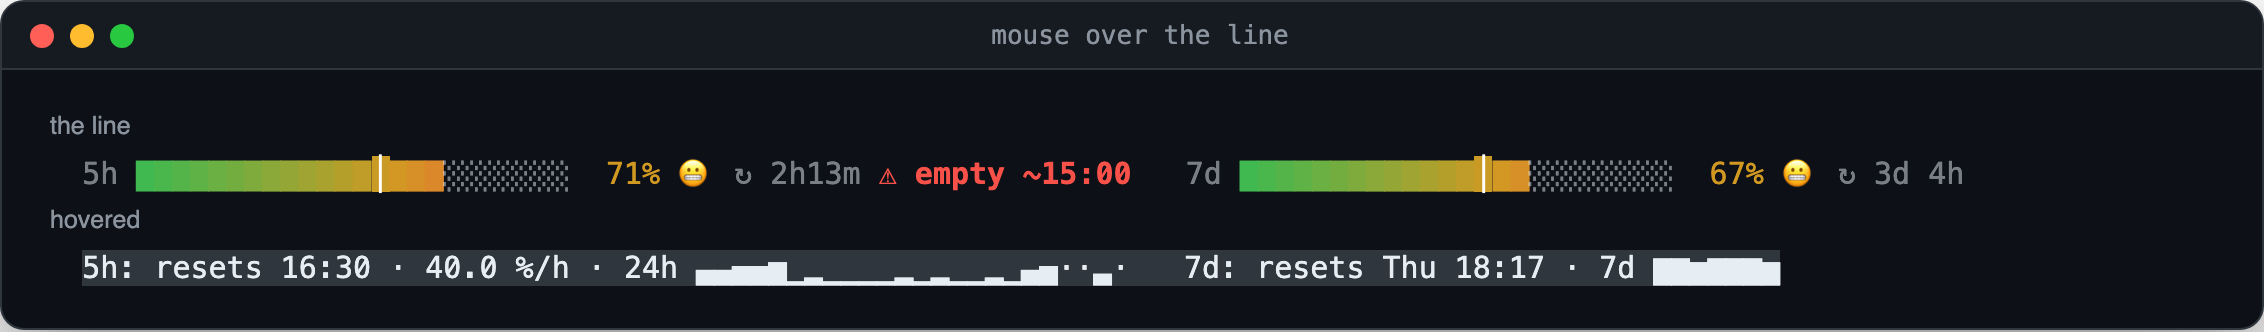
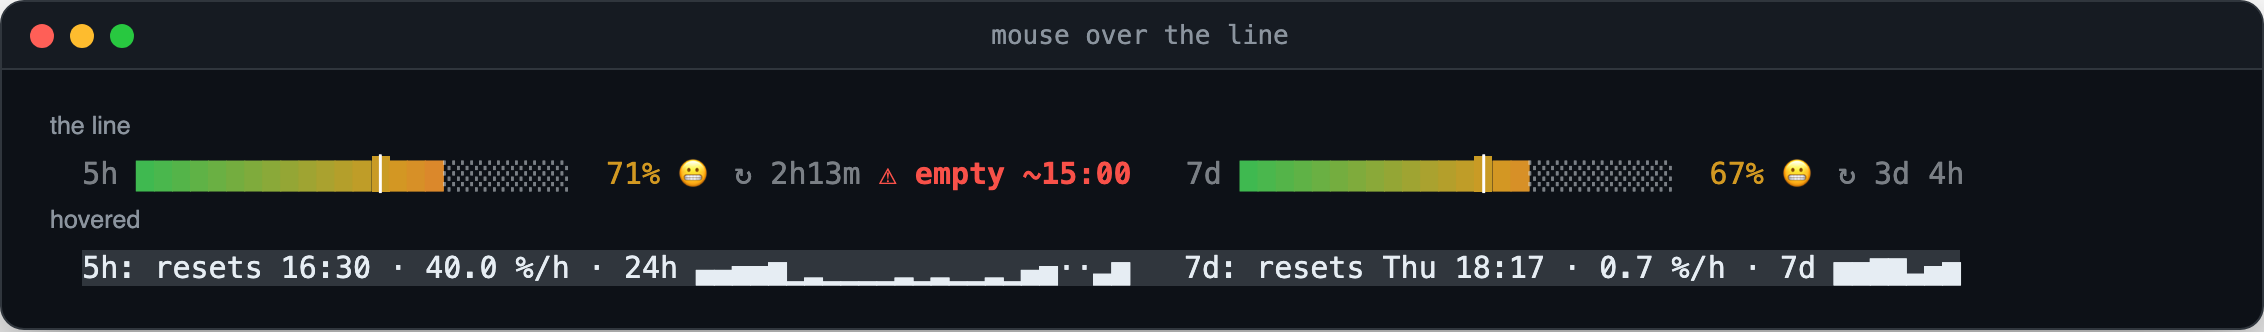
usage-bars 0.4.2: each sparkline shows its own window, no false gaps
The hover card's 7-day sparkline drew the 5-hour peaks (92 % read as ~20 %);
each window now shows its own level, with the current reading as the newest
sample. Readings only arrive when a window moves, so steady hours read as
gaps: the ticker records a steady value again every 10 minutes.

Claude-Session: https://claude.ai/code/session_019u7idwkUghepx1515yVmMc

Changed region(s): [[0.7111, 0.753, 0.8657, 0.8735], [0.4638, 0.7831, 0.5256, 0.8434]]

diff --git a/hooks/row.ts b/hooks/row.ts
@@ -1,4 +1,4 @@
-import type { Delta, History, Lang, Limit, Motion, Prefs } from '../types'
+import type { Delta, History, Lang, Limit, Motion, Prefs, Sample } from '../types'
 import {
   DELTA_MS,
   PARTY_MS,
@@ -88,16 +88,23 @@ export function rowSegs(i: RowInput): Seg[] {
   return out
 }
 
-/** The hover card: reset time, burn rate and a sparkline per window. */
+/**
+ * The hover card: reset time, burn rate and a sparkline per window.
+ *
+ * Each window's sparkline shows that window's own level (the 5h one per hour
+ * over 24 hours, the 7d one per day over 7 days), with the current reading as
+ * the newest sample: it is known even when no sample was taken this hour.
+ */
 export function detailText(limits: readonly Limit[], history: History, now: number, lang: Lang = 'en'): string {
   return limits
     .map(l => {
       const r = rate(history[l.kind], l.kind, l.resetsAt, l.percentUsed, now)
       const at = l.resetsAt ? Date.parse(l.resetsAt) : NaN
+      const own = [...(history[l.kind] ?? []), [now, l.percentUsed] as Sample]
       const sp =
         l.kind === 'five_hour'
-          ? `24h ${spark(peaks(history.five_hour, now, 3600_000, 24))}`
-          : `7${T[lang].day} ${spark(peaks(history.five_hour, now, 86400_000, 7))}`
+          ? `24h ${spark(peaks(own, now, 3600_000, 24))}`
+          : `7${T[lang].day} ${spark(peaks(own, now, 86400_000, 7))}`
       const reset = Number.isNaN(at) ? T[lang].resetOpen : T[lang].resetAt(clockTime(at, now, lang))
       return `${label(l.kind)}: ${reset}${r ? ` · ${num1(r.perHour, lang)} %/h` : ''} · ${sp}`
     })

diff --git a/tests/format.spec.ts b/tests/format.spec.ts
@@ -2,7 +2,7 @@ import { test } from 'node:test'
 import assert from 'node:assert/strict'
 
 import {
-  appendSample, barWidth, clockTime, elapsed, face, filled, glide, paceRatio, peaks, quip, rate, reached, runsDryAt, spark, tone, untilReset,
+  appendSample, barWidth, heartbeat, clockTime, elapsed, face, filled, glide, paceRatio, peaks, quip, rate, reached, runsDryAt, spark, tone, untilReset,
 } from '../hooks/format.ts'
 
 const H = 3600_000
@@ -111,6 +111,18 @@ test('appendSample caps the history at 3000 samples', () => {
   let h = {}
   for (let i = 0; i < 3100; i++) h = appendSample(h, 'five_hour', [i * 60_000, i % 100], 3100 * 60_000)
   assert.equal((h as Record<string, unknown[]>).five_hour!.length, 3000)
+})
+
+test('heartbeat records a steady reading again after its interval, and only then', () => {
+  const h = { five_hour: [[0, 10]] as [number, number][] }
+  const lims = [{ kind: 'five_hour', percentUsed: 10 }, { kind: 'seven_day', percentUsed: 90 }]
+  const soon = heartbeat({ ...h, seven_day: [[0, 90]] }, lims, 9 * 60_000, 10 * 60_000)
+  assert.deepEqual(soon.five_hour, [[0, 10]])
+  const due = heartbeat(h, lims, 10 * 60_000, 10 * 60_000)
+  assert.deepEqual(due.five_hour, [[0, 10], [600_000, 10]])
+  assert.deepEqual(due.seven_day, [[600_000, 90]])
+  const same = { five_hour: [[0, 10]] as [number, number][] }
+  assert.equal(heartbeat(same, [], 10 * H), same)
 })
 
 test('spark and peaks', () => {

diff --git a/hooks/register.tsx b/hooks/register.tsx
@@ -12,6 +12,7 @@ import {
   barWidth,
   clockTime,
   glide,
+  heartbeat,
   peaks,
   pick,
   quip,
@@ -124,6 +125,16 @@ async function publish($: EngineInterface, mine: readonly Limit[], now: number):
   return merged
 }
 
+/** Record a steady reading again now and then, so the sparklines have no false gaps. */
+async function beat($: EngineInterface, list: readonly Limit[], now: number): Promise<void> {
+  const stored = ((await $.store.get('history').catch(() => undefined)) ?? {}) as History
+  const merged = mergeHistory(stored, await read($, historyA), now)
+  const next = heartbeat(merged, list, now)
+  if (next === merged) return
+  await update($, historyA, () => next)
+  await $.store.set('history', next).catch(() => undefined)
+}
+
 /** How often (in 1 s ticks) a session looks at what the others heard. */
 const SYNC_TICKS = 5
 
@@ -230,6 +241,7 @@ export const register: Register = (on, options) => {
           await apply($, merged, now)
           return
         }
+        if (ticks % 60 === 0) await beat($, list, now)
         const soon = list.some(l => l.resetsAt && Date.parse(l.resetsAt) - now < 3600_000)
         const wiggle = prefs.animation && (prefs.style === 'hourglass' || prefs.style === 'battery')
         if (soon || wiggle || ticks % 30 === 0) $.ui.invalidate('ui.render')

diff --git a/tests/row.spec.ts b/tests/row.spec.ts
@@ -77,6 +77,23 @@ test('detailText names reset, rate and a sparkline', () => {
   assert.ok(t.includes('24h '))
 })
 
+test('each window sparkline shows its own level, the 7d one too', () => {
+  const t = detailText(
+    [{ kind: 'five_hour', percentUsed: 20, resetsAt: iso(NOW + H) }, { kind: 'seven_day', percentUsed: 92, resetsAt: iso(NOW + 80 * H) }],
+    { five_hour: [[NOW - 2 * H, 10]], seven_day: [[NOW - 2 * 86400_000, 60]] },
+    NOW,
+  )
+  // 7d: 60 % two days ago, 92 % now; the 5h figures stay out of it
+  assert.ok(t.includes('7d ····▅·▇'), t)
+  // 5h: 10 % two hours back, nothing in between, 20 % now
+  assert.ok(t.includes('24h ·····················▂·▂'), t)
+})
+
+test('the current reading fills the newest bucket without a sample this hour', () => {
+  const t = detailText([{ kind: 'five_hour', percentUsed: 100, resetsAt: iso(NOW + H) }], {}, NOW)
+  assert.ok(t.endsWith('·█'), t)
+})
+
 test('German: the line and the card switch language', () => {
   const de = { ...prefs, lang: 'de' as const }
   assert.ok(row({ prefs: de, limit: { kind: 'five_hour', percentUsed: 100, resetsAt: iso(NOW + H) } }).includes('weiter in 1h00m'))

diff --git a/tools/screenshots.ts b/tools/screenshots.ts
@@ -122,7 +122,12 @@ async function main() {
   }
   // inside the current window, the same samples the line above uses
   const history = [...week.filter(([t]) => t < NOW - 3 * H), [NOW - H, 31]] as [number, number][]
-  const card = detailText([{ ...FIVE, percentUsed: 71 }, SEVEN], { five_hour: history }, NOW)
+  // the 7-day level: the previous window filled to 85 %, the current one climbs to 67 %
+  const start = Date.parse(SEVEN.resetsAt!) - 7 * 24 * H
+  const seven: [number, number][] = week.map(([t]) =>
+    t < start ? [t, Math.round(40 + (45 * (t - (start - 7 * 24 * H))) / (7 * 24 * H))] : [t, Math.round((SEVEN.percentUsed * (t - start)) / (NOW - start))],
+  )
+  const card = detailText([{ ...FIVE, percentUsed: 71 }, SEVEN], { five_hour: history, seven_day: seven }, NOW)
   await shoot('hover', frame('mouse over the line', `<div class="cap">the line</div>  ${pair({ limit: { ...FIVE, percentUsed: 71 }, history: hist }, { limit: SEVEN })}\n<div class="cap">hovered</div>  <span class="card">${esc(card)}</span>`))
 
   // Animated demo: an answer arrives, the bar glides, +3% flashes and fades;

diff --git a/hooks/format.ts b/hooks/format.ts
@@ -137,6 +137,25 @@ export function appendSample(h: History, kind: string, s: Sample, now: number): 
   return { ...h, [kind]: [...list, s].slice(-3000) }
 }
 
+/** How long a reading may stand without a sample before the ticker records it again. */
+export const HEARTBEAT_MS = 10 * 60_000
+
+/**
+ * A sample for every window whose last one is `every` old or more.
+ *
+ * Readings only arrive when a window moves, so an hour at a steady value
+ * left no sample and its sparkline bucket read `·`, as if nothing was known.
+ * Returns `h` itself when nothing was due.
+ */
+export function heartbeat(h: History, limits: readonly { kind: string; percentUsed: number }[], now: number, every = HEARTBEAT_MS): History {
+  let out = h
+  for (const l of limits) {
+    const last = out[l.kind]?.at(-1)
+    if (!last || now - last[0] >= every) out = appendSample(out, l.kind, [now, l.percentUsed], now)
+  }
+  return out
+}
+
 const SPARK = '▁▂▃▄▅▆▇█'
 export function spark(values: readonly (number | undefined)[]): string {
   return values

diff --git a/hooks/render.test.tsx b/hooks/render.test.tsx
@@ -180,6 +180,15 @@ test('the shared history keeps the samples other sessions recorded', async ($, o
   expect((disk.history as any).five_hour).toEqual([[-60_000, 10], [0, 20]])
 })
 
+test('a steady reading is sampled again every 10 minutes', async ($, on) => {
+  const disk: Record<string, unknown> = {}
+  const { clock } = engine(on, [], disk)
+  await start($)
+  await measure($, [{ kind: 'seven_day', percentUsed: 92, resetsAt: iso(80 * H) }])
+  for (let i = 0; i < 11; i++) await clock.advance(60_000)
+  expect((disk.history as any).seven_day.length).toBe(2)
+})
+
 test('at 100 % a quip replaces the bar', async ($, on) => {
   engine(on)
   await measure($, [{ kind: 'five_hour', percentUsed: 100, resetsAt: iso(H) }])

diff --git a/README.md b/README.md
@@ -14,9 +14,9 @@
 
 <h3>👉 <code>/plugin marketplace add pepperonas/usage-bars</code> · <code>/plugin install usage-bars@pepperonas</code> — that's it.</h3>
 
-[![version](https://img.shields.io/badge/version-0.4.1-7B4DFF?style=for-the-badge&logo=anthropic&logoColor=white)](CHANGELOG.md)
-[![node tests](https://img.shields.io/badge/node%20tests-70-2E9E5B?style=for-the-badge&logo=nodedotjs&logoColor=white)](tests)
-[![engine tests](https://img.shields.io/badge/engine%20tests-40-2E9E5B?style=for-the-badge&logo=anthropic&logoColor=white)](hooks)
+[![version](https://img.shields.io/badge/version-0.4.2-7B4DFF?style=for-the-badge&logo=anthropic&logoColor=white)](CHANGELOG.md)
+[![node tests](https://img.shields.io/badge/node%20tests-73-2E9E5B?style=for-the-badge&logo=nodedotjs&logoColor=white)](tests)
+[![engine tests](https://img.shields.io/badge/engine%20tests-41-2E9E5B?style=for-the-badge&logo=anthropic&logoColor=white)](hooks)
 [![lines of code](https://img.shields.io/badge/lines%20of%20code-0.9k-4B6BDF?style=for-the-badge&logo=typescript&logoColor=white)](hooks)
 
 [![CI](https://img.shields.io/github/actions/workflow/status/pepperonas/usage-bars/ci.yml?branch=main&label=CI&logo=github)](https://github.com/pepperonas/usage-bars/actions/workflows/ci.yml)
@@ -76,9 +76,9 @@
 
 ### Hover card
 
-<img src="docs/hover.png" alt="Hovering the line shows reset times, burn rate in %/h and sparklines of the 5-hour peaks" width="100%">
+<img src="docs/hover.png" alt="Hovering the line shows reset times, burn rate in %/h and a sparkline of each window" width="100%">
 
-<sub>Point at the line for reset times, your burn rate and sparklines of the last 24 hours and 7 days — where the surface reports the pointer (the desktop app; terminals that pass mouse movement).</sub>
+<sub>Point at the line for reset times, your burn rate and a sparkline per window — the 5-hour level per hour over 24 hours, the 7-day level per day over 7 days — where the surface reports the pointer (the desktop app; terminals that pass mouse movement).</sub>
 
 <sub>Every image above is rendered from the mod's own renderer (<code>hooks/row.ts</code>, <code>hooks/styles.ts</code>) by <code>npm run screenshots</code> — not drawn by hand.</sub>
 
@@ -200,7 +200,7 @@ The defaults live in `/config` under **usage-bars**:
 - **Drawing.** A `ui.render` hook on the `PromptHint` component returns the engine's own hint line *plus* one row — the shortcuts and pills keep working.
 - **Pace.** `elapsed = 1 − (resetsAt − now) / window`; the mark sits at that share of the bar, and `used / elapsed` picks the face.
 - **Projection.** Burn rate = rise since the first sample *inside the current window* ÷ time; it needs 10 minutes of samples and a rising value. Samples from the previous window never count.
-- **History.** Up to 3000 samples, 8 days, in `$.store` — that's what the sparklines, the record and the once-per-window toasts are built on.
+- **History.** Up to 3000 samples, 8 days, in `$.store` — that's what the sparklines, the record and the once-per-window toasts are built on. A reading only arrives when a window moves, so the ticker records a steady value again every 10 minutes; a `·` in a sparkline then really means no session was running.
 
 ### 🔒 Privacy
 
@@ -259,6 +259,7 @@ npm run screenshots      # re-render docs/ (needs `npx playwright install chromi
 
 The full history is in [CHANGELOG.md](CHANGELOG.md) ([Keep a Changelog](https://keepachangelog.com/en/1.1.0/)).
 
+- **0.4.2** — the 7-day sparkline shows the 7-day level, and steady hours no longer show as gaps.
 - **0.4.1** — every session shows the same, current figures; an idle one no longer shows old numbers or a 0 % window.
 - **0.4.0** — typing `/usage-bars ` lists what may follow, under the prompt.
 - **0.3.3** — ready for the Claude plugin directory: a listing icon, and `/config` fields the directory accepts.

diff --git a/CHANGELOG.md b/CHANGELOG.md
@@ -4,6 +4,15 @@ All notable changes to this project are documented here. The format follows
 [Keep a Changelog](https://keepachangelog.com/en/1.1.0/), and the project uses
 [Semantic Versioning](https://semver.org/).
 
+## [0.4.2] - 2026-10-07
+
+### Fixed
+- The hover card's 7-day sparkline showed the 5-hour peaks, so a 7-day window at 92 % came with a
+  bar of about 20 %. Each window's sparkline now shows that window's own level.
+- Hours at a steady value read `·` (no data) in the sparklines: a sample was only taken when a window
+  moved. The ticker now records a steady reading again every 10 minutes, and the card counts the
+  current reading as the newest sample.
+
 ## [0.4.1] - 2026-10-07
 
 ### Fixed
